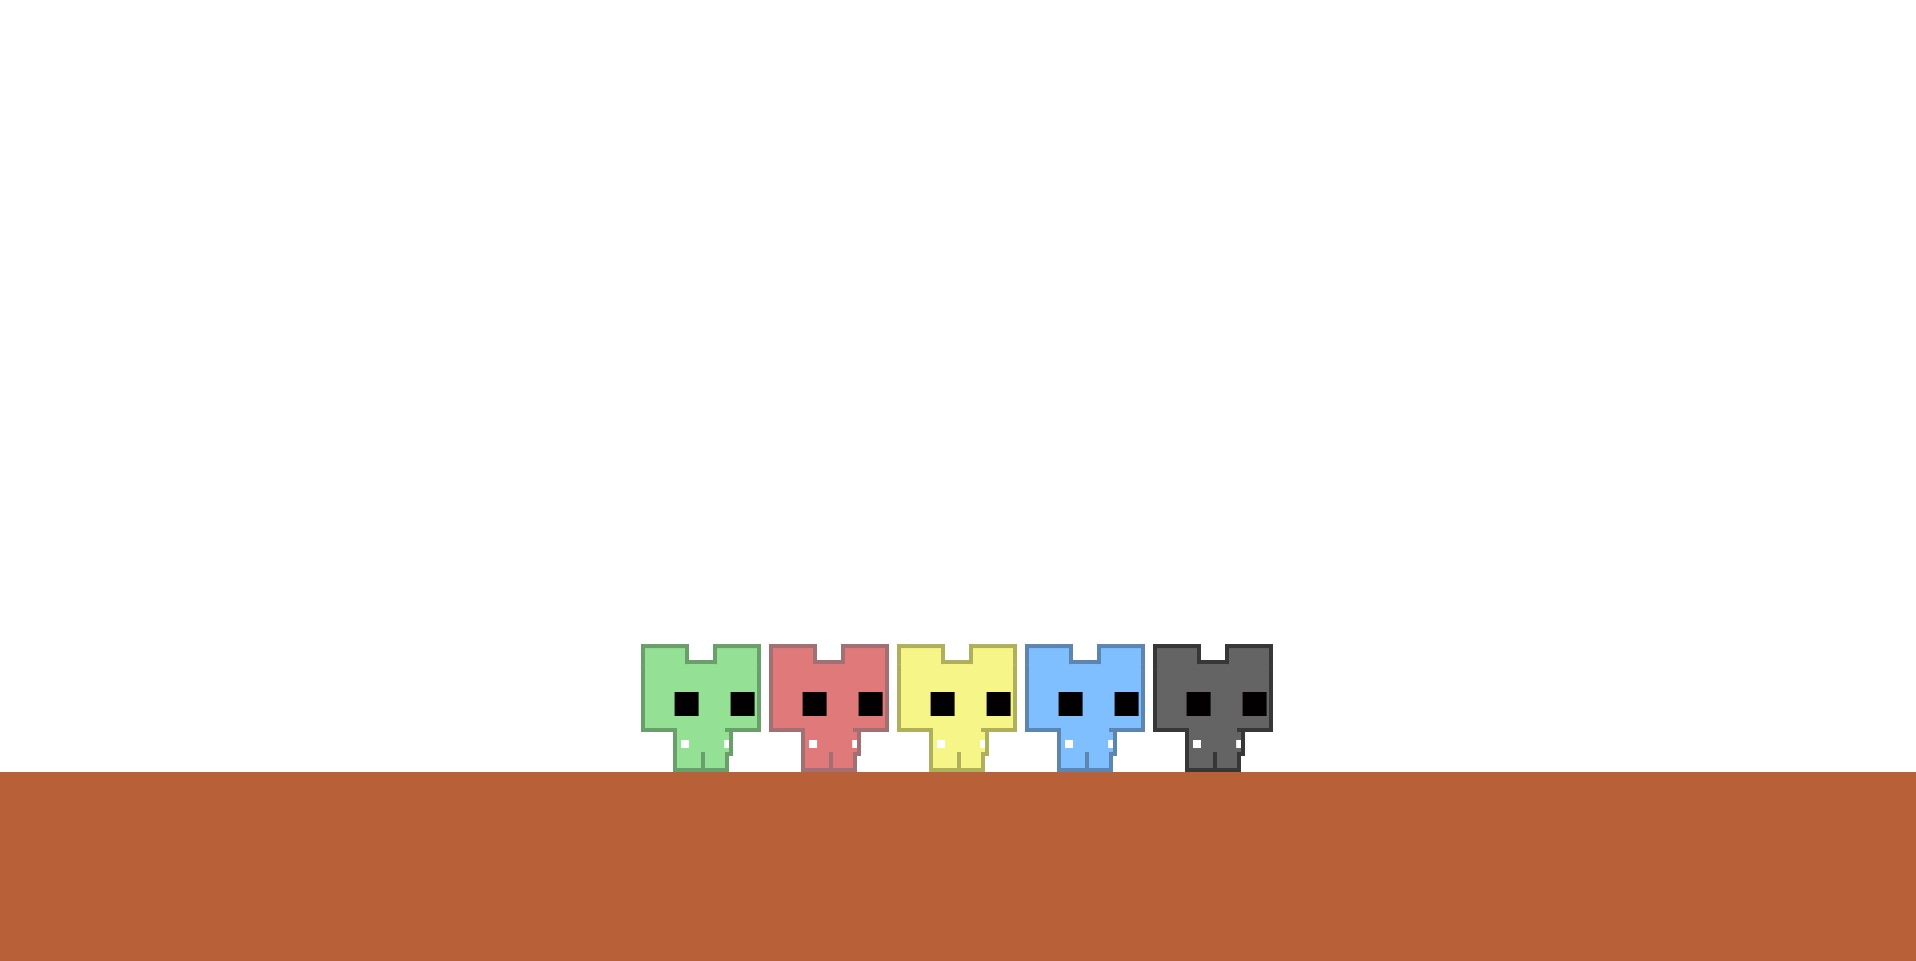
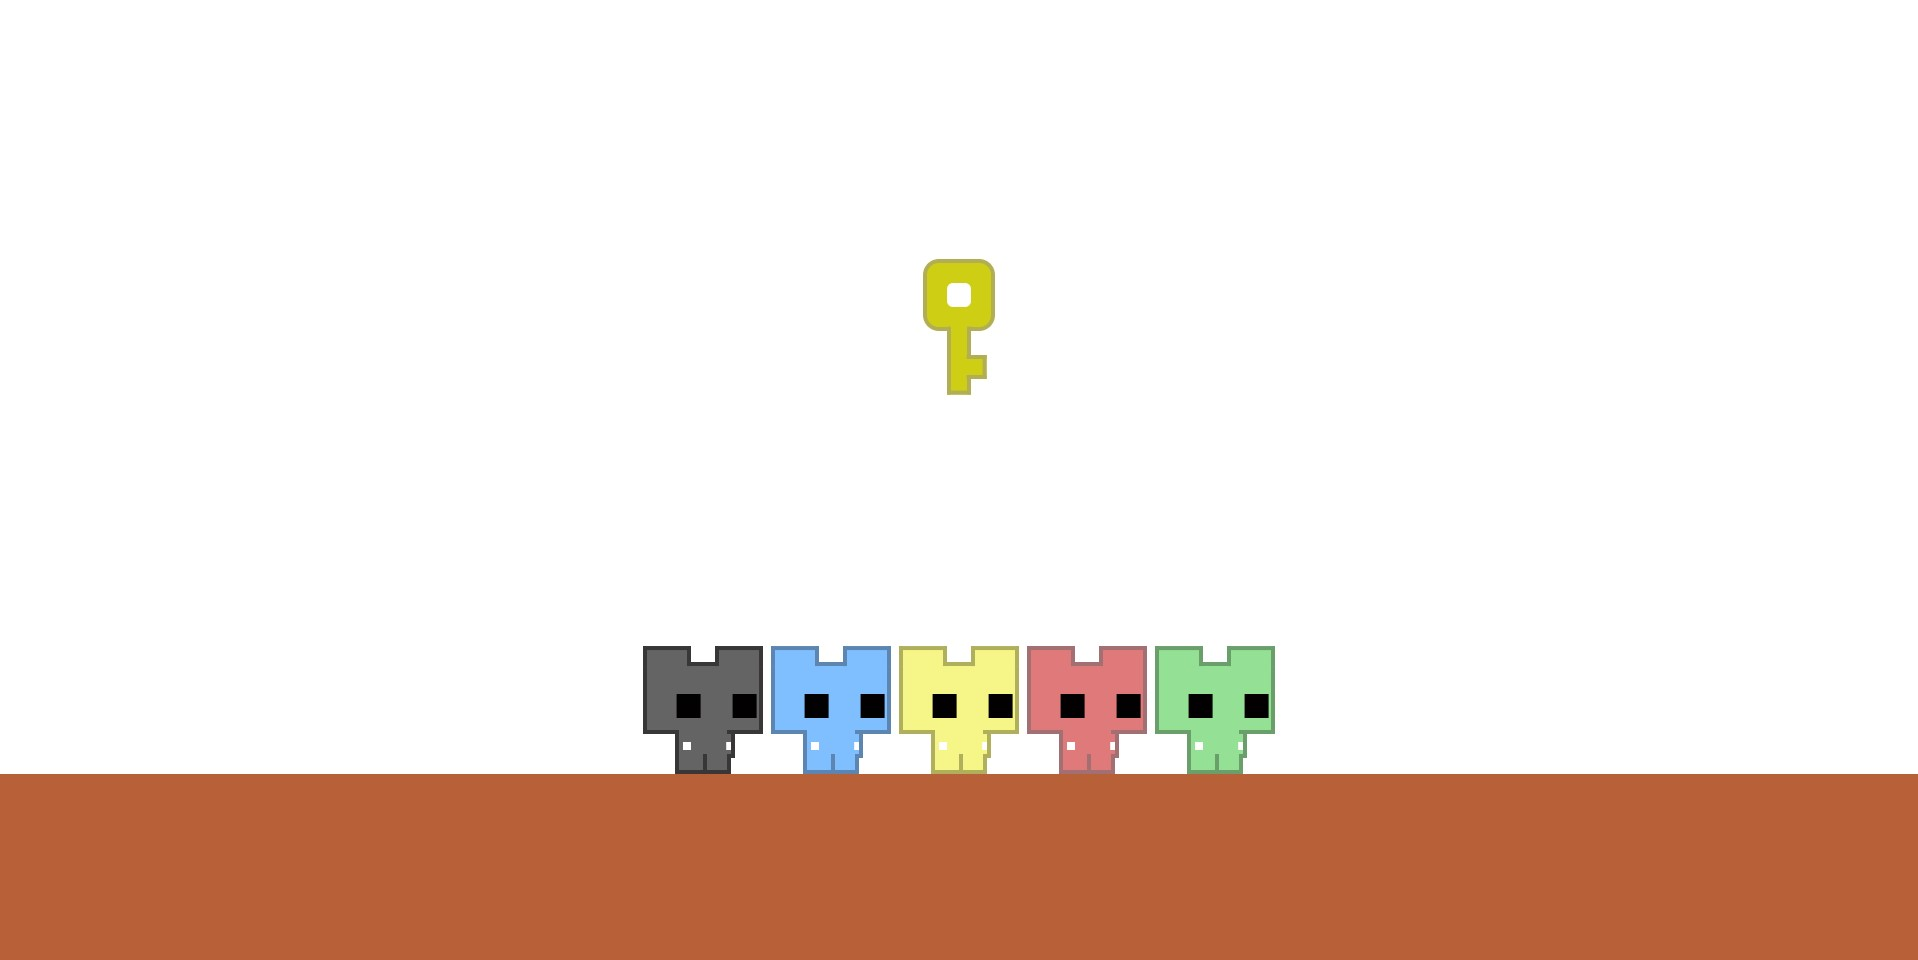
Added new preview.jpg Added style hey Added javascript click hover pico park

Changed region(s): [[0.3079, 0.6562, 0.6775, 0.8125], [0.4619, 0.25, 0.5235, 0.4062]]

diff --git a/src/assets/styles/style.scss b/src/assets/styles/style.scss
@@ -13,16 +13,20 @@ $border-blue: rgb(93,133,178);
     padding: 0;
 } 
 body {
-    overflow: hidden;
-}
-.container {
     width: 100vw;
     height: 80vh;
     display: flex;
-    justify-content: center;
-    align-items: flex-end;
+    flex-direction: column;
+    justify-content: flex-end;
+    align-items: center;
     background-color: rgb(255,255,255);
     border-bottom: 20vw solid rgb(184,97,57); 
+    overflow: hidden;
+}
+.container {
+    display: flex;
+    justify-content: center;
+    align-items: flex-end;
 }
 .pico-park { 
     width: 8em;
@@ -191,4 +195,53 @@ body {
 .pico-blue>.pico-park-body::after{
     box-shadow: 2.2em 0 0 $blue,
         2.5em 0 0 #FFF;
+}
+.container-key{
+    height: 100%;
+    display: flex;
+    align-items: center;
+}
+.box {
+    height: 8em;
+}
+.key {
+    position: relative;
+    width: 4em;
+    height: 4em;
+    background-color: rgb(206, 206, 20);
+    border: .25em solid rgb(178,174,85);
+    border-radius: 1em; 
+    display: flex;
+    justify-content: center;
+    align-items: center; 
+    &::before {
+        content: '';
+        position: absolute;
+        width: 1em;
+        height: 1em;
+        background-color: rgb(206, 206, 20);
+        border: .25em solid rgb(178,174,85);
+        border-radius: 0;
+        border-left: none;
+        transform: translate(1.1em, 4.5em);
+        z-index: 1;
+    } 
+    &::after {
+        content: '';
+        position: absolute;
+        width: 1em;
+        height: 4em;
+        background-color: rgb(206, 206, 20);
+        border-top: none;
+        border: .25em solid rgb(178,174,85);
+        transform: translateY(4.1em);
+        border-top: none;
+    }
+}
+.circle {
+    width: 1em;
+    height: 1em;
+    background-color: #FFF;
+    border: 0.25em solid #FFF;
+    border-radius: 25%;
 }

diff --git a/src/assets/styles/style.css b/src/assets/styles/style.css
@@ -4,17 +4,21 @@
 }
 
 body {
+  width: 100vw;
+  height: 80vh;
+  display: flex;
+  flex-direction: column;
+  justify-content: flex-end;
+  align-items: center;
+  background-color: white;
+  border-bottom: 20vw solid #b86139;
   overflow: hidden;
 }
 
 .container {
-  width: 100vw;
-  height: 80vh;
   display: flex;
   justify-content: center;
   align-items: flex-end;
-  background-color: white;
-  border-bottom: 20vw solid #b86139;
 }
 
 .pico-park {
@@ -181,6 +185,59 @@ body {
 
 .pico-blue > .pico-park-body::after {
   box-shadow: 2.2em 0 0 #7fbeff, 2.5em 0 0 #FFF;
+}
+
+.container-key {
+  height: 100%;
+  display: flex;
+  align-items: center;
+}
+
+.box {
+  height: 8em;
+}
+
+.key {
+  position: relative;
+  width: 4em;
+  height: 4em;
+  background-color: #cece14;
+  border: 0.25em solid #b2ae55;
+  border-radius: 1em;
+  display: flex;
+  justify-content: center;
+  align-items: center;
+}
+.key::before {
+  content: "";
+  position: absolute;
+  width: 1em;
+  height: 1em;
+  background-color: #cece14;
+  border: 0.25em solid #b2ae55;
+  border-radius: 0;
+  border-left: none;
+  transform: translate(1.1em, 4.5em);
+  z-index: 1;
+}
+.key::after {
+  content: "";
+  position: absolute;
+  width: 1em;
+  height: 4em;
+  background-color: #cece14;
+  border-top: none;
+  border: 0.25em solid #b2ae55;
+  transform: translateY(4.1em);
+  border-top: none;
+}
+
+.circle {
+  width: 1em;
+  height: 1em;
+  background-color: #FFF;
+  border: 0.25em solid #FFF;
+  border-radius: 25%;
 }
 
 /*# sourceMappingURL=style.css.map */

diff --git a/index.html b/index.html
@@ -8,7 +8,14 @@
     <link rel="stylesheet" href="src/assets/styles/style.css">
 </head>
 <body>
-    <div class="container">
+    <div class="container container-key">
+        <div class="box">
+            <div class="key">
+                <div class="circle"></div>
+            </div> 
+        </div>
+    </div>
+    <div class="container pico-parks">
         <div class="pico-park pico-green">
             <div class="pico-park-head">
                 <div class="pico-park-eyes"></div>
@@ -46,4 +53,5 @@
         </div>
     </div>
 </body>
+<script src="./src/assets/javascript/app.js"></script>
 </html>

diff --git a/src/assets/javascript/app.js b/src/assets/javascript/app.js
@@ -1,0 +1,13 @@
+const picoParks = document.querySelectorAll('.pico-park');
+const container = document.querySelector('.pico-parks');
+const moveAll = [
+    'row-reverse',
+    'row',
+    'column-reverse',
+    'column', 
+];
+picoParks.forEach((picoPark, index) => { 
+    picoPark.addEventListener('click', () => {
+        container.style.flexDirection = moveAll[index]
+    });
+});
